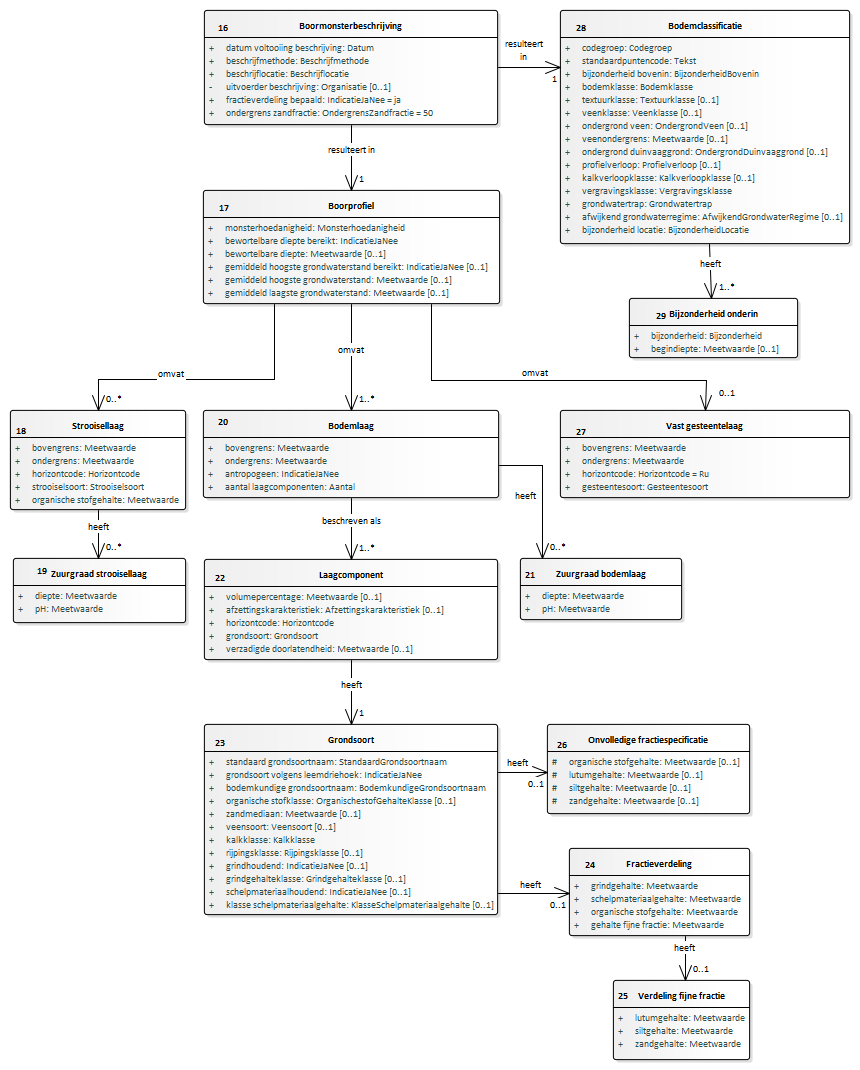
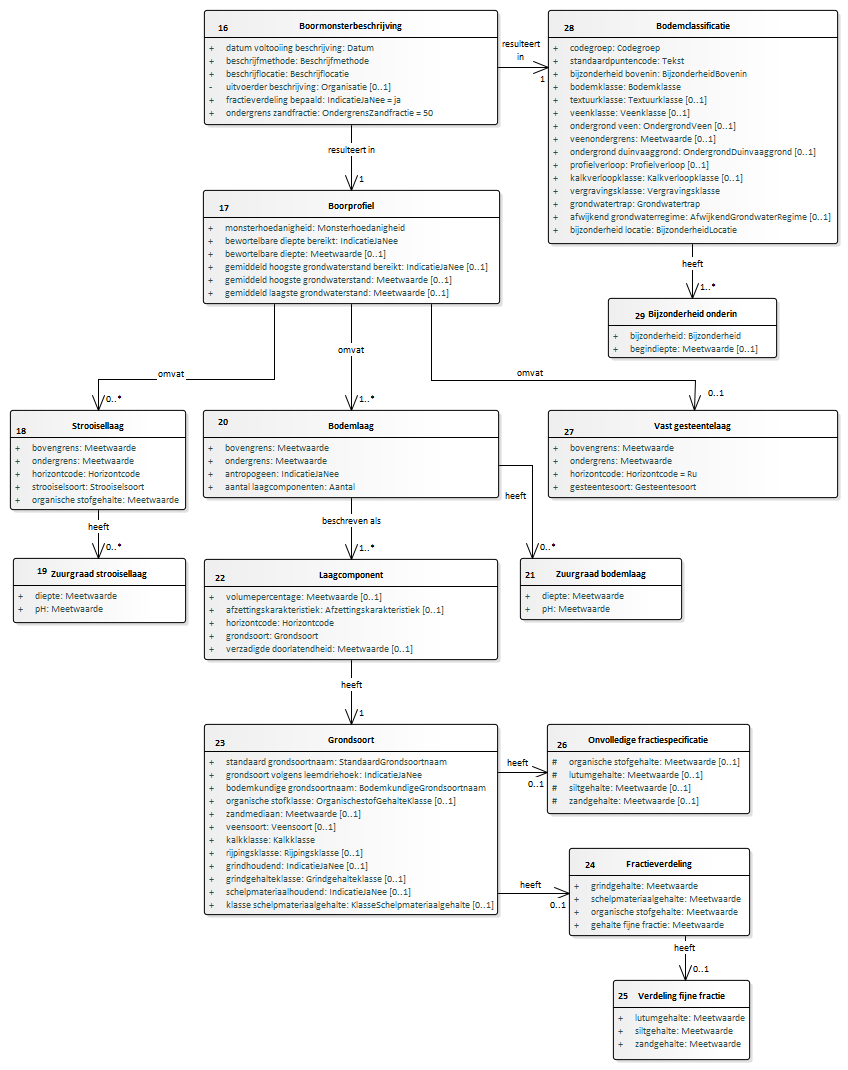
Conceptualmodel-BHR-Pconceptueel-MIM-1.9127november2019-1-20200214-20200304-164520

diff --git a/data/BHR-P-cat.msword.html b/data/BHR-P-cat.msword.html
@@ -13,7 +13,7 @@
    <body>
       <p>Conceptual model/BHR-P conceptueel - MIM/20200214</p>
       <p>Imvertor: 1.59.2</p>
-      <p>Model release: Conceptualmodel-BHR-Pconceptueel-MIM-1.9127november2019-1-20200214-20200304-163203</p>
+      <p>Model release: Conceptualmodel-BHR-Pconceptueel-MIM-1.9127november2019-1-20200214-20200304-164520</p>
       <hr>
       <section>
          <h1>Artikel 1 Definitie van registratieobject, entiteiten en attributen</h1>
@@ -70,16 +70,16 @@
             <h2>Het domeinmodel</h2>
             <section id="">
                <div class="imageinfo overview"><img src="Images/EAID_1C3500F1_E5BB_47e3_9CE1_BB98873D797A.png" usemap="#imagemap-EAID_1C3500F1_E5BB_47e3_9CE1_BB98873D797A" alt="Diagram "><map name="imagemap-EAID_1C3500F1_E5BB_47e3_9CE1_BB98873D797A">
-                     <area shape="rect" alt="Bodemclassificatie" coords="560,10,850,244" href="#graph_EAID_CFE14268_F08B_4a20_BB74_3FEA8BBA0438">
+                     <area shape="rect" alt="Bodemclassificatie" coords="548,10,838,244" href="#graph_EAID_CFE14268_F08B_4a20_BB74_3FEA8BBA0438">
                      <area shape="rect" alt="Zuurgraad bodemlaag" coords="520,558,682,620" href="#graph_EAID_20864613_7F9B_4610_9180_7A919D60C45B">
                      <area shape="rect" alt="Verdeling fijne fractie" coords="613,980,750,1060" href="#graph_EAID_60B04447_7B86_410e_B20F_D3CD115886D1">
                      <area shape="rect" alt="Onvolledige fractiespecificatie" coords="547,724,750,814" href="#graph_EAID_2882FB1B_C7C2_467c_AEBB_238330EEBFC0">
                      <area shape="rect" alt="Fractieverdeling" coords="569,848,750,936" href="#graph_EAID_EF53B14C_3668_4ef9_934A_1FD39F3E0662">
                      <area shape="rect" alt="Grondsoort" coords="204,724,498,915" href="#graph_EAID_6335A71B_82D0_48a7_B08B_E14E5233FFFC">
                      <area shape="rect" alt="Laagcomponent" coords="204,559,498,660" href="#graph_EAID_972B648E_F4A1_4a70_92B9_3383A5DB7706">
-                     <area shape="rect" alt="Vast gesteentelaag" coords="560,410,850,498" href="#graph_EAID_53169F7B_05E8_438f_A558_2A98EA6E3BDE">
+                     <area shape="rect" alt="Vast gesteentelaag" coords="548,410,838,498" href="#graph_EAID_53169F7B_05E8_438f_A558_2A98EA6E3BDE">
                      <area shape="rect" alt="Bodemlaag" coords="203,410,499,498" href="#graph_EAID_BAEFD725_0B6B_4084_AB08_BC42F75343BC">
-                     <area shape="rect" alt="Bijzonderheid onderin" coords="629,298,798,358" href="#graph_EAID_4B2108B5_2549_4222_B1C3_253785E10046">
+                     <area shape="rect" alt="Bijzonderheid onderin" coords="608,298,777,358" href="#graph_EAID_4B2108B5_2549_4222_B1C3_253785E10046">
                      <area shape="rect" alt="Strooisellaag" coords="10,410,186,510" href="#graph_EAID_53792607_43A9_402c_BCFF_E9A10589D199">
                      <area shape="rect" alt="Boorprofiel" coords="203,190,500,304" href="#graph_EAID_E066634E_A30B_4f31_9447_9ADBF0419CB4">
                      <area shape="rect" alt="Boormonsterbeschrijving" coords="204,10,498,125" href="#graph_EAID_697C344A_A1CE_4e19_A1E8_D608CAB8F0B2">
